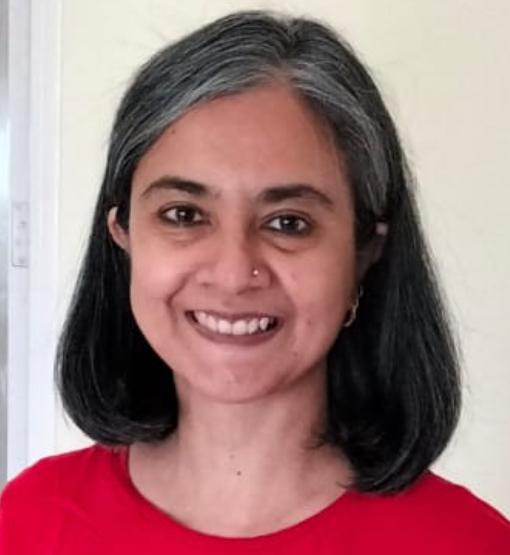
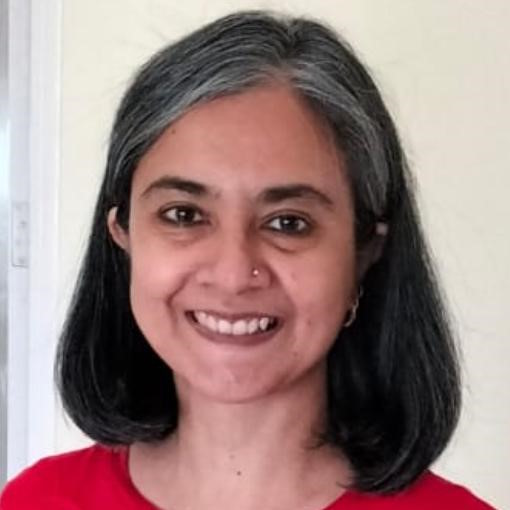
people - images, donate in stasis

diff --git a/assets/site.css b/assets/site.css
@@ -51,3 +51,5 @@
 
 .cursive, #content h3.cursive { font-family: "Yuji Mai", serif; }
 #content h3.cursive { font-size: 45px; }
+
+.bordered-image { border-radius: 50%; }

diff --git a/site-cms.php b/site-cms.php
@@ -10,7 +10,7 @@ bootstrap([
 	'safeName' => 'globalconcernsindia',
 	
 	'support_page_parameters' => true,
-	'version' => [ 'id' => '1.5.4', 'date' => '31 Dec 2024' ],
+	'version' => [ 'id' => '1.5.5', 'date' => '13 Jan 2025' ],
 
 	'site-home-in-menu' => true,
 	'home-link-to-section' => true,
@@ -66,7 +66,7 @@ bootstrap([
 	'address' => 'Registered office: 17 Rhenius Street, 5A Sukhi Apartments, Richmond Town, Bengaluru-560 025',
 	'address2' => 'Community Office: No.25 & 26, 2nd Cross, LRNagar, opp. NGV, Koramangala, Bengaluru 560 047',
 
-	'upi' => [ 'site' => [ 'id' => 'gcindia1@sbi', 'name' => $name ] ],
+	'upi' => [ 'site' => [ 'id' => 'gcindia1@sbi', 'name' => str_replace(' ', '+', $name) ] ],
 	'social' => [
 		[ 'type' => 'linkedin', 'link' => 'https://www.linkedin.com/company/global-concerns-india/', 'name' => 'LinkedIn: Global Concerns India Company' ],
 		[ 'type' => 'linkedin', 'link' => 'https://www.linkedin.com/in/brinda-adige/', 'name' => 'LinkedIn: Brinda Adige (Founder) @ Global Concerns India' ],

diff --git a/content/people.php b/content/people.php
@@ -30,9 +30,10 @@ foreach ($sheet->rows as $item) {
 	echo '<div>';
 
 	if (disk_file_exists($folBase . $safeName . '.jpg'))
-		echo replaceItems('<img class="bordered-image img-right img-max-300" src="%src%?fver=2" alt="%name" />', [
+		echo replaceItems('<img class="bordered-image img-right img-max-300" src="%src%?fver=3" alt="%name" />', [
 			'src' => $urlBase . $safeName . '.jpg',
 			'name' => $name], '%') . am_var('2nl');
+	//else if (am_var('local')) echo $safeName;
 
 	if ($item[$cols['role']])
 		echo '	<h4><i>' . $item[$cols['role']] . '</i></h4>' . am_var('nl');
@@ -40,6 +41,7 @@ foreach ($sheet->rows as $item) {
 	$about = $aboutBase . $safeName . '.md';
 	if (disk_file_exists($about))
 		renderMarkdown($about);
+	//else if (am_var('local')) echo $about;
 
 	echo '</div>';
 	section('end');

diff --git a/data/donate/details.md b/data/donate/details.md
@@ -1,4 +1,4 @@
-<!-- engage: SITE //engage-->
+<!-- eng--age: SITE //eng--age-->
 
 ## Donation Amounts & Details
 
@@ -8,6 +8,8 @@ You will then have an option of sending the message by email / whatsapp.
 
 #### Amounts and Targets
 
+NOTE: The **UPI links** will be up shortly.
+
 %razorpay-links%
 
 ----
@@ -16,7 +18,7 @@ You will then have an option of sending the message by email / whatsapp.
 
 Kindly note that amounts above Rs 500 require us to collect your name and PAN number.
 
-Donation Details++
+<u>Donation Details</u><!--TODO: ++-->
 
 * Full Name
 * Mobile
@@ -28,5 +30,4 @@ Donation Details++
 
 If the transaction id cannot be copied, a screenshot would do.
 
-%engage-note%
-
+<!--% engage-note% -->
